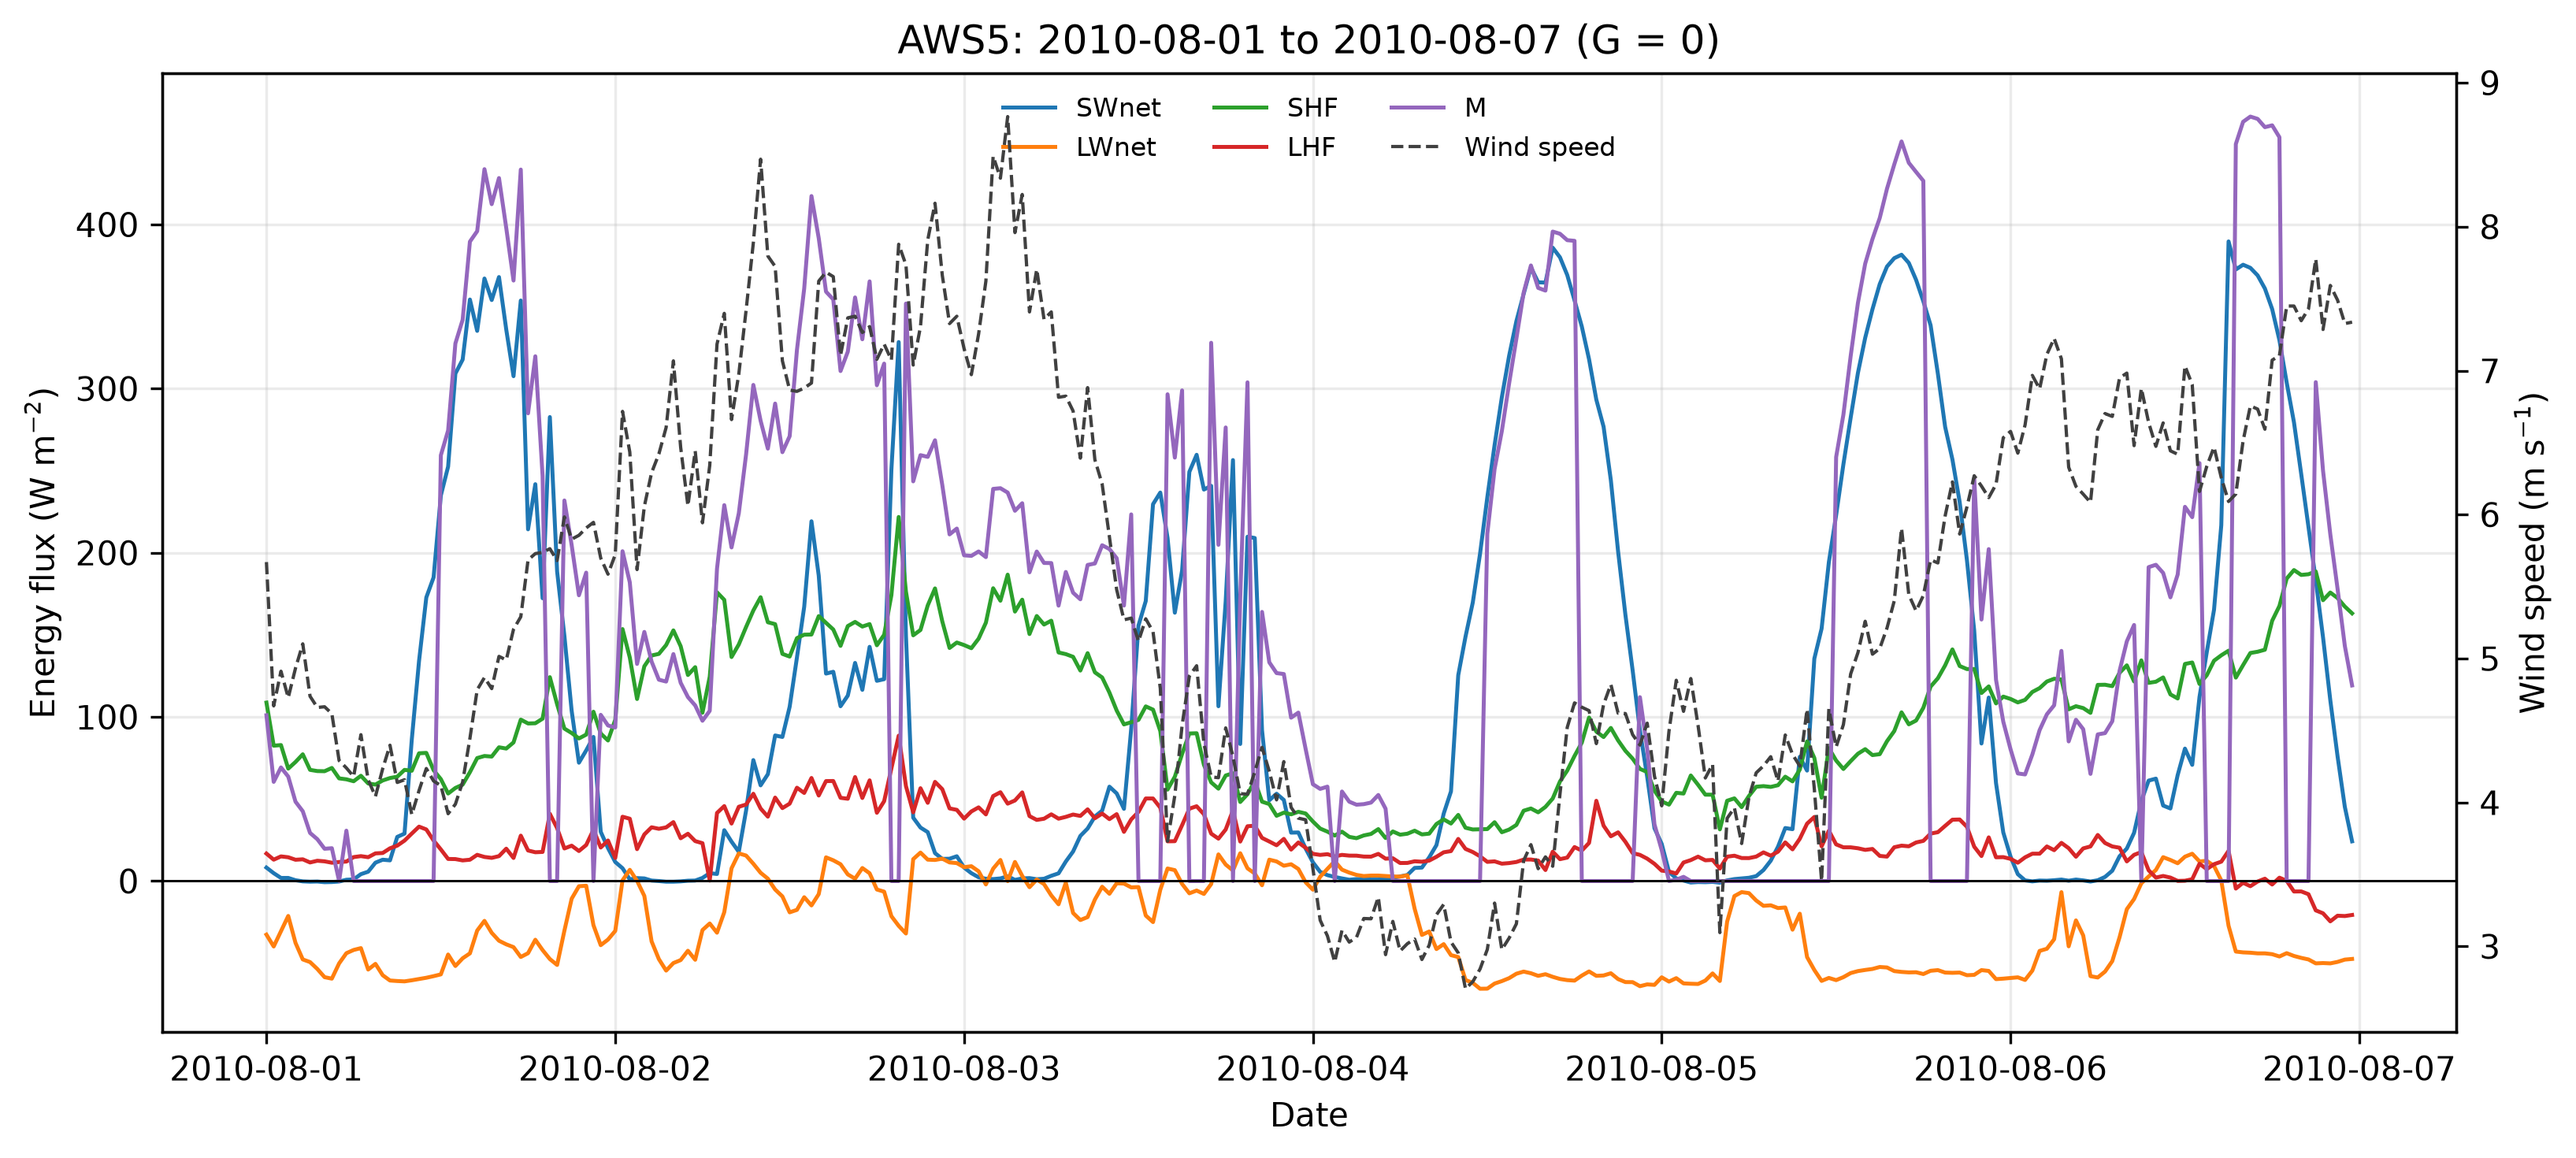
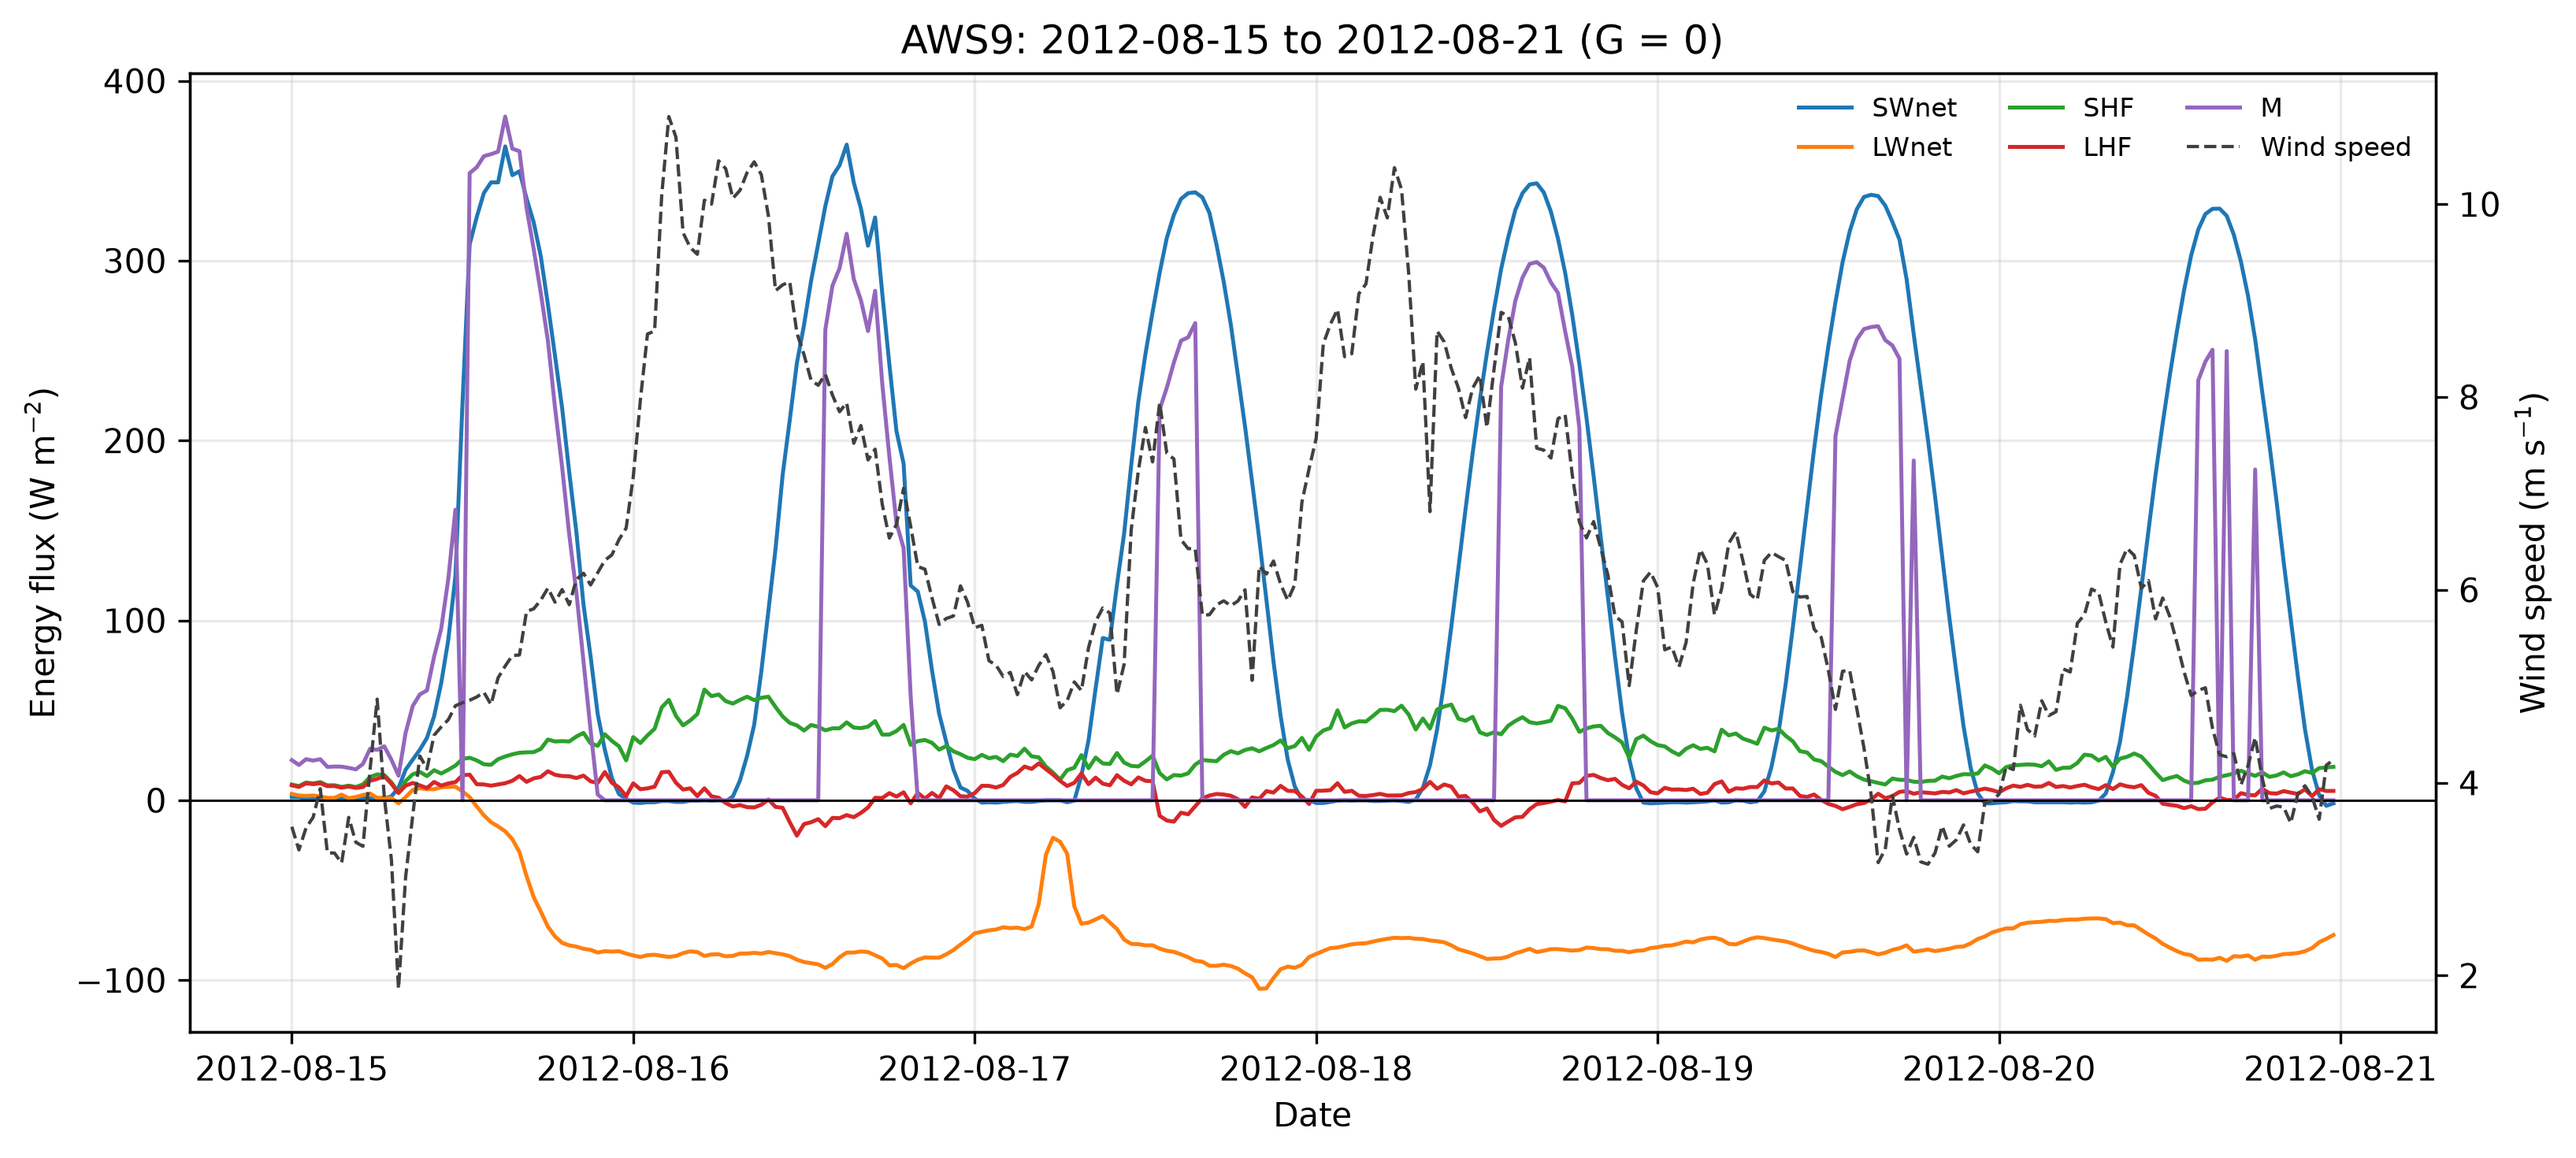
Improved plots and comparision

diff --git a/code/paper_reproduction.py b/code/paper_reproduction.py
@@ -250,7 +250,7 @@ def plot_monthly_seb(stations=STATIONS, out="figure4_monthly_seb.png"):
     fig.savefig(out, dpi=300, bbox_inches="tight")
     plt.close(fig)
 
-def plot_hourly_case_study(station="AWS5", start="2010-08-01", end="2010-08-07",
+def plot_hourly_case_study(station="AWS9", start="2012-08-07", end="2012-08-14",
                            out="figure5_hourly_case_study.png"):
     ts = mc.melt_station(station)
     ts = ts.loc[(ts.index >= pd.Timestamp(start)) & (ts.index < pd.Timestamp(end))]
@@ -394,8 +394,8 @@ def print_paper_tables(correlations: pd.DataFrame, trends: pd.DataFrame) -> None
 def main():
     parser = argparse.ArgumentParser(description=__doc__)
     parser.add_argument("--out", default=str(mc.ROOT / "output" / "paper_reproduction"))
-    parser.add_argument("--case-start", default="2010-08-01")
-    parser.add_argument("--case-end", default="2010-08-07")
+    parser.add_argument("--case-start", default="2012-08-15")
+    parser.add_argument("--case-end", default="2012-08-21")
     args = parser.parse_args()
     out = Path(args.out); out.mkdir(parents=True, exist_ok=True)
 
